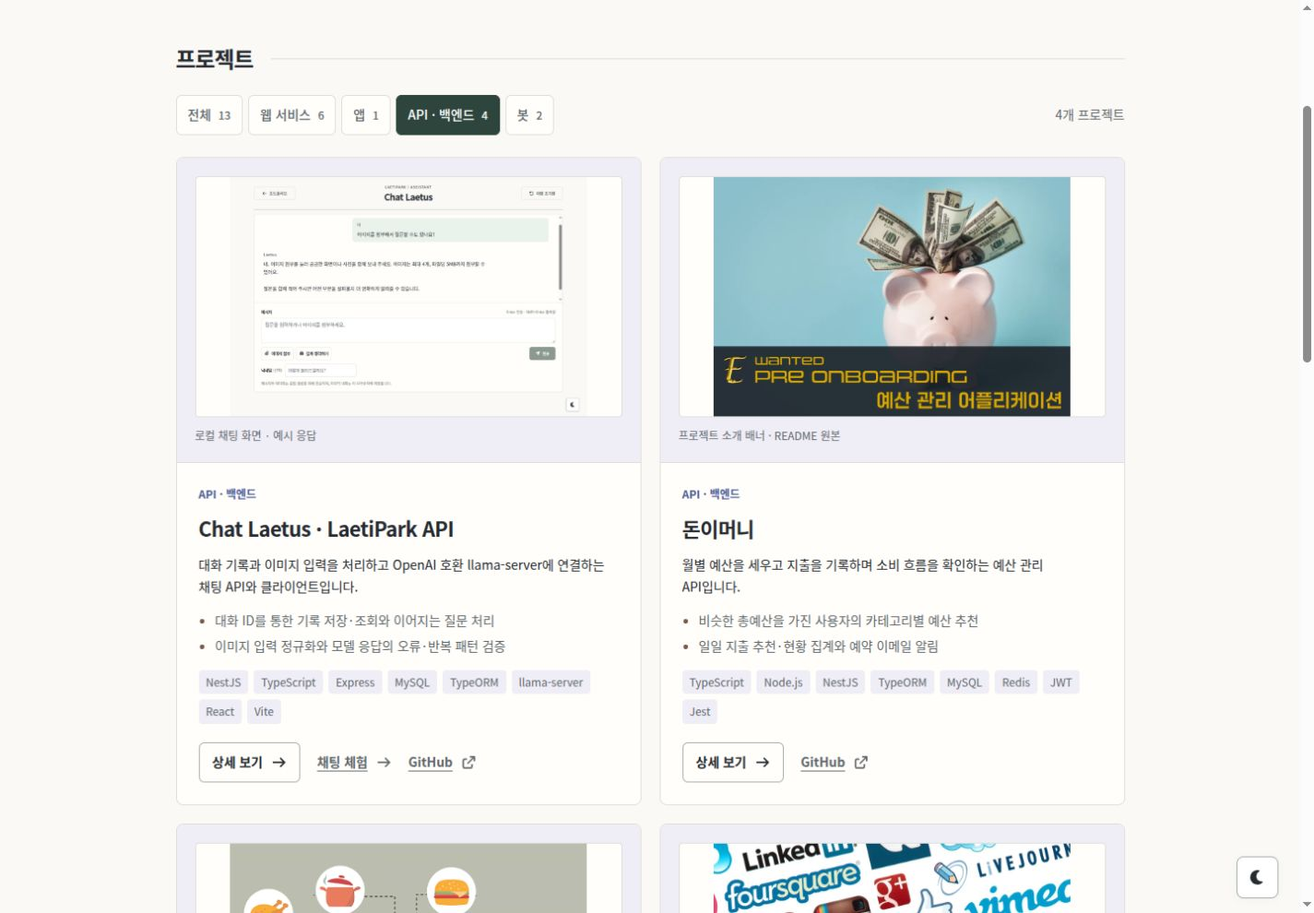
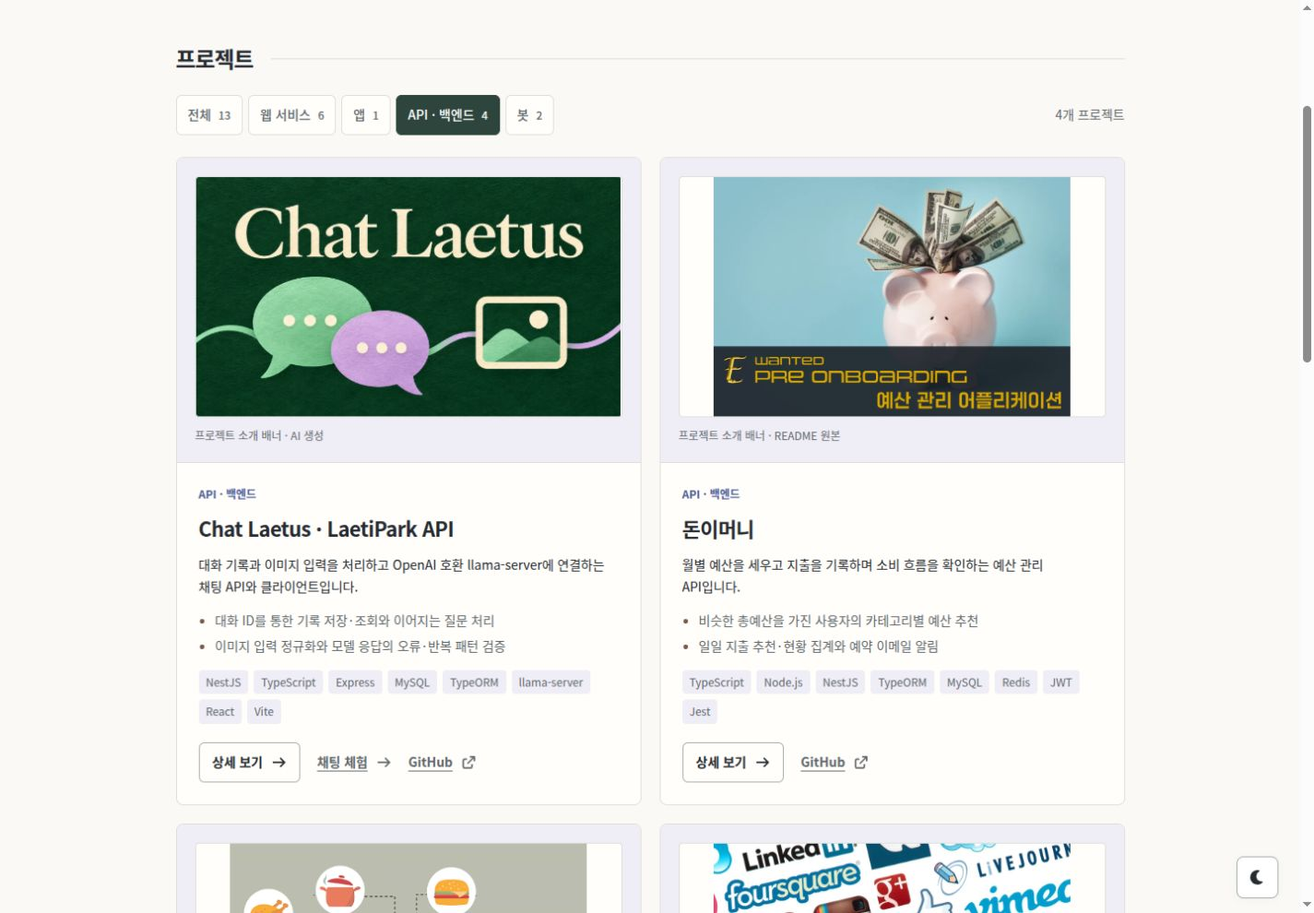
design: 프로젝트 소개 배너 제작 및 README 반영 기록

Changed region(s): [[0.1235, 0.1818, 0.494, 0.4848]]

diff --git a/src/common/data/project-catalog.ts b/src/common/data/project-catalog.ts
@@ -5,6 +5,8 @@ import brawlTreeImage from '../../assets/brawltree.png';
 import sexynogiImage from '../../assets/projects/sexynogi-banner.png';
 import uninoteImage from '../../assets/projects/uninote-screen.png';
 import mountainImage from '../../assets/projects/happy-mountain.png';
+import mountainBanner from '../../assets/projects/happy-mountain-banner.png';
+import uninoteBanner from '../../assets/projects/uninote-banner.png';
 import type { PortfolioProject } from '../types/portfolio';
 import { experimentProjects } from './project-experiments';
 import { serviceProjects } from './project-services';
@@ -138,6 +140,9 @@ export const projects: PortfolioProject[] = [
     id: 'uninote',
     title: 'UNINOTE',
     category: 'web',
+    banner: uninoteBanner,
+    bannerAlt: '하늘색 배경의 노트와 마인드맵을 그린 UNINOTE 소개 배너',
+    bannerCaption: '프로젝트 소개 배너 · AI 생성',
     summary:
       '학습 내용을 마인드맵으로 정리하고 노트와 첨부 자료를 관리하는 웹·Android 프로젝트입니다.',
     highlights: [
@@ -187,6 +192,9 @@ export const projects: PortfolioProject[] = [
     id: 'happy-mountain',
     title: '산등성이',
     category: 'app',
+    banner: mountainBanner,
+    bannerAlt: '웃는 해와 초록 산길, 산등성이 이름을 담은 소개 배너',
+    bannerCaption: '프로젝트 소개 배너 · AI 생성',
     summary:
       '주변 산과 날씨, 지역별 산불 위험 예보를 지도에서 확인하는 Flutter 앱입니다.',
     highlights: [

diff --git a/src/common/data/project-experiments.ts b/src/common/data/project-experiments.ts
@@ -8,6 +8,8 @@ import moneyIsMoneyBanner from '../../assets/projects/money-is-money-banner.png'
 import moneyIsMoneyErd from '../../assets/projects/money-is-money-erd.png';
 
 import type { PortfolioProject } from '../types/portfolio';
+import gowatchBanner from '../../assets/projects/gowatch-banner.png';
+import blossomBotBanner from '../../assets/projects/blossom-bot-banner.png';
 
 export const experimentProjects: PortfolioProject[] = [
   {
@@ -206,6 +208,9 @@ export const experimentProjects: PortfolioProject[] = [
     id: 'gowatch-bot',
     title: 'Gowatch',
     category: 'bot',
+    banner: gowatchBanner,
+    bannerAlt: '노란 스톱워치와 G 심볼을 담은 Gowatch 집중 타이머 배너',
+    bannerCaption: '프로젝트 소개 배너 · AI 생성',
     image: gowatchLogo,
     imageAlt: '노란 바탕에 타이머 모양을 더한 Gowatch 봇 로고',
     imageCaption: '봇 로고 · 프로젝트 저장소',
@@ -259,6 +264,9 @@ export const experimentProjects: PortfolioProject[] = [
     id: 'blossom-bot',
     title: 'Blossom Bot',
     category: 'bot',
+    banner: blossomBotBanner,
+    bannerAlt: '보라색 벚꽃 B 심볼과 게임 카드를 담은 Blossom Bot 배너',
+    bannerCaption: '프로젝트 소개 배너 · AI 생성',
     image: blossomBotLogo,
     imageAlt: '보라색 바탕의 벚꽃과 B 문양으로 구성한 Blossom Discord 봇 로고',
     imageCaption: '봇 로고 · 프로젝트 저장소',

diff --git a/src/common/data/project-services.ts b/src/common/data/project-services.ts
@@ -3,6 +3,7 @@ import type { PortfolioProject } from '../types/portfolio';
 import orsemImage from '../../assets/projects/orsem-ui.png';
 import mysteryMangoImage from '../../assets/projects/mystery-mango.jpg';
 import chatLaetusImage from '../../assets/projects/chat-laetus.jpg';
+import chatLaetusBanner from '../../assets/projects/chat-laetus-banner.png';
 import orsemBanner from '../../assets/projects/orsem-banner.png';
 import mysteryMangoBanner from '../../assets/projects/mystery-mango-banner.png';
 
@@ -141,6 +142,10 @@ export const serviceProjects: PortfolioProject[] = [
     id: 'chat-laetus',
     title: 'Chat Laetus · LaetiPark API',
     category: 'backend',
+    banner: chatLaetusBanner,
+    bannerAlt:
+      '초록 배경에 대화 말풍선과 이미지 입력을 표현한 Chat Laetus 배너',
+    bannerCaption: '프로젝트 소개 배너 · AI 생성',
     image: chatLaetusImage,
     imageAlt:
       '예시 질문과 응답, 이미지 첨부와 깊게 생각하기 도구가 있는 Chat Laetus 화면',

diff --git a/docs/design/project-sources.md b/docs/design/project-sources.md
@@ -9,8 +9,8 @@
 - Brawl Tree·Sexynogi를 대표 프로젝트로 배치하고 웹 서비스 6개, 앱 1개, API·백엔드 4개, 봇 2개로 분류합니다.
 - 기간과 상태는 기존 Brawl Tree·Blossom Stats의 표기를 보존합니다. 새 프로젝트의 날짜·운영 상태·성과 수치는 추정하지 않습니다.
 - 협업 프로젝트는 README에 명시된 개인 담당 역할과 서비스 전체 기능을 구분합니다.
-- 목록은 실제 배너를 우선 사용하고, 배너가 없는 경우 로고 또는 기존 화면을 표시합니다. 상세는 화면·ERD와 구현 설명을 연결합니다.
-- 공개 원본은 `src/assets/projects/`에 저장합니다. 원본 비율을 유지하며 캡션에서 배너·로고·화면·목업·ERD를 구분합니다. 생성한 가상 서비스 화면은 사용하지 않았습니다.
+- 목록은 프로젝트 배너를 우선 사용하고, 배너가 없는 경우 로고 또는 기존 화면을 표시합니다. 사용자 요청으로 Chat Laetus·UNINOTE·산등성이·Gowatch·Blossom Bot에는 소개 배너를 생성해 사용하며 기존 화면·로고는 상세용으로 보존합니다.
+- 공개 원본과 생성 배너는 `src/assets/projects/`에 저장합니다. 원본 비율을 유지하며 캡션에서 배너·로고·화면·목업·ERD를 구분합니다. 생성 배너의 캡션은 `프로젝트 소개 배너 · AI 생성`이며 실제 서비스 화면을 나타내지 않습니다. 제작 근거와 출력 정보는 [생성 배너 기록](generated-banners.md)에 둡니다.
 
 ## 기본 프로젝트
 
@@ -24,22 +24,22 @@
 
 ## 기본 이미지와 배너
 
-| 프로젝트      | 목록 이미지                                                                                                                                                                                      | 상세 이미지와 출처                                    |
-| ------------- | ------------------------------------------------------------------------------------------------------------------------------------------------------------------------------------------------ | ----------------------------------------------------- |
-| Brawl Tree    | [공식 가로형 로고](https://github.com/laetipark/brawltree/blob/master/frontend/public/images/logo/brawltree/logo_horizontal.png) → [로컬 자산](../../src/assets/projects/brawltree-wordmark.png) | 기존 [서비스 화면](../../src/assets/brawltree.png)    |
-| Sexynogi      | [README 대표 배너](https://github.com/laetipark/mobinogi-web/blob/master/frontend/public/thumbnail.png) → [로컬 자산](../../src/assets/projects/sexynogi-banner.png)                             | 같은 원본 사용, 상세에서 중복 표시하지 않음           |
-| UNINOTE       | [로드맵 안내 화면](https://github.com/laetipark/uninote-web/blob/master/BBS/WebContent/img/1.%20map.PNG) → [로컬 자산](../../src/assets/projects/uninote-screen.png)                             | 전용 배너를 찾지 못해 실제 화면 사용                  |
-| 산등성이      | [앱 로고](https://github.com/laetipark/happy-mountain/blob/master/mobile/assets/images/logo.png) → [로컬 자산](../../src/assets/projects/happy-mountain.png)                                     | 전용 배너 없이 기존 로고 사용                         |
-| Blossom Stats | [Blossom 가로형 로고](https://github.com/laetipark/brawltree/blob/master/frontend/public/images/logo/blossom/logo_horizontal.png) → [로컬 자산](../../src/assets/projects/blossom-banner.png)    | 기존 [서비스 화면](../../src/assets/blossomstats.png) |
+| 프로젝트      | 목록 이미지                                                                                                                                                                                      | 상세 이미지와 출처                                                                                                                                                   |
+| ------------- | ------------------------------------------------------------------------------------------------------------------------------------------------------------------------------------------------ | -------------------------------------------------------------------------------------------------------------------------------------------------------------------- |
+| Brawl Tree    | [공식 가로형 로고](https://github.com/laetipark/brawltree/blob/master/frontend/public/images/logo/brawltree/logo_horizontal.png) → [로컬 자산](../../src/assets/projects/brawltree-wordmark.png) | 기존 [서비스 화면](../../src/assets/brawltree.png)                                                                                                                   |
+| Sexynogi      | [README 대표 배너](https://github.com/laetipark/mobinogi-web/blob/master/frontend/public/thumbnail.png) → [로컬 자산](../../src/assets/projects/sexynogi-banner.png)                             | 같은 원본 사용, 상세에서 중복 표시하지 않음                                                                                                                          |
+| UNINOTE       | [생성 소개 배너](../../src/assets/projects/uninote-banner.png) · [제작 기록](generated-banners.md)                                                                                               | [로드맵 안내 화면](https://github.com/laetipark/uninote-web/blob/master/BBS/WebContent/img/1.%20map.PNG) → [로컬 자산](../../src/assets/projects/uninote-screen.png) |
+| 산등성이      | [생성 소개 배너](../../src/assets/projects/happy-mountain-banner.png) · [제작 기록](generated-banners.md)                                                                                        | [앱 로고](https://github.com/laetipark/happy-mountain/blob/master/mobile/assets/images/logo.png) → [로컬 자산](../../src/assets/projects/happy-mountain.png)         |
+| Blossom Stats | [Blossom 가로형 로고](https://github.com/laetipark/brawltree/blob/master/frontend/public/images/logo/blossom/logo_horizontal.png) → [로컬 자산](../../src/assets/projects/blossom-banner.png)    | 기존 [서비스 화면](../../src/assets/blossomstats.png)                                                                                                                |
 
-공개 저장소 파일 목록과 README에서 자산 경로를 확인한 뒤 내려받아 직접 검토했습니다. 학습 기록 날짜나 저장소 생성일을 프로젝트 개발 기간으로 바꾸지 않았습니다.
+공개 저장소에서 가져온 자산은 파일 목록과 README에서 경로를 확인한 뒤 내려받아 직접 검토했습니다. 2026-11-07 최초 조사에서 UNINOTE와 산등성이의 전용 배너는 찾지 못했으며, 이후 사용자 요청으로 생성 소개 배너를 추가합니다. 학습 기록 날짜나 저장소 생성일을 프로젝트 개발 기간으로 바꾸지 않았습니다.
 
 ## 추가 프로젝트의 상세 근거
 
 - [서비스 프로젝트 근거와 배너](sources-services.md): Orsem, Mystery Mango, Chat Laetus · LaetiPark API
 - [백엔드·봇 프로젝트 근거와 배너](sources-experiments.md): 돈이머니, 여기가자, 피드모아, Gowatch, Blossom Bot
 
-배너가 없는 Chat Laetus는 실제 로컬 UI에서 통제된 예시 응답을 캡처했습니다. 해당 이미지는 모델의 실제 추론 결과나 운영 서버 성능을 나타내지 않습니다. 각 프로젝트 서버·봇의 기능 테스트를 이번 포트폴리오 조사에서 수행한 것은 아닙니다.
+Chat Laetus는 생성 소개 배너와 별도로 실제 로컬 UI에서 통제된 예시 응답을 캡처한 상세 이미지를 보존합니다. 해당 화면은 모델의 실제 추론 결과나 운영 서버 성능을 나타내지 않습니다. 각 프로젝트 서버·봇의 기능 테스트를 이번 포트폴리오 조사에서 수행한 것은 아닙니다.
 
 ## 운영 링크 확인
 

diff --git a/docs/design/generated-banners.md b/docs/design/generated-banners.md
@@ -1,0 +1,57 @@
+# 프로젝트 소개 배너 제작
+
+[디자인 개편 기록](portfolio-redesign.md) · [이미지 출처](project-sources.md) · [최종 프롬프트](banner-prompts.json)
+
+2026-11-07 사용자 요청에 따라 배너가 없던 다섯 프로젝트의 소개 이미지를 제작했습니다. **내장 `image_gen` 도구**를 사용했으며, 완성 PNG는 모두 **1672×941px**입니다. 포트폴리오에서는 기존 카드와 같은 **16:9** 영역에 `scale-down`으로 표시해 자르거나 늘리지 않습니다.
+
+## 디자인과 저장 위치
+
+| 프로젝트    | 표현 방향                                             | 완성 파일                                                                        |
+| ----------- | ----------------------------------------------------- | -------------------------------------------------------------------------------- |
+| Chat Laetus | 짙은 초록, 민트·라벤더 대화 말풍선과 이미지 입력 상징 | [chat-laetus-banner.png](../../src/assets/projects/chat-laetus-banner.png)       |
+| UNINOTE     | 하늘색·아이보리, 열린 노트와 연결된 마인드맵          | [uninote-banner.png](../../src/assets/projects/uninote-banner.png)               |
+| 산등성이    | 기존 웃는 해·산 로고, 초록 능선과 산책길              | [happy-mountain-banner.png](../../src/assets/projects/happy-mountain-banner.png) |
+| Gowatch     | 기존 G·스톱워치 모티프, 노란색과 집중 시간의 흐름     | [gowatch-banner.png](../../src/assets/projects/gowatch-banner.png)               |
+| Blossom Bot | 기존 벚꽃 B 심볼, 보라색 말풍선과 게임 카드           | [blossom-bot-banner.png](../../src/assets/projects/blossom-bot-banner.png)       |
+
+산등성이·Gowatch·Blossom Bot은 저장소의 기존 로고를 참조했습니다. UNINOTE는 기존 화면의 하늘색을, Chat Laetus는 포트폴리오의 초록·민트·라벤더를 사용했습니다. 공통으로 큰 프로젝트명, 부드러운 종이 질감과 여백을 사용하되 각 프로젝트의 주제를 구분했습니다.
+
+프롬프트의 요청 해상도와 생성 도구의 실제 출력은 다를 수 있어, 배포 전 PNG 헤더와 브라우저의 `naturalWidth`·`naturalHeight`로 다섯 파일이 모두 같은 크기임을 확인했습니다. 최종 문구와 참조 자산은 [프롬프트 기록](banner-prompts.json)에 보관합니다.
+
+이 이미지는 프로젝트를 소개하는 일러스트이며 실제 제품 화면이나 기능 시연이 아닙니다. 목록과 상세의 캡션은 `프로젝트 소개 배너 · AI 생성`으로 구분합니다. 기존 화면·로고·ERD는 상세 이미지로 보존합니다.
+
+## 프로젝트 README 반영
+
+UNINOTE는 웹과 Android가 하나의 프로젝트이므로 같은 PNG를 두 저장소에 사용합니다. 각 저장소의 변경은 README의 H1 다음 배너 한 줄과 이미지 파일 하나로 한정하며, 기존 설명과 로고는 보존합니다.
+
+| 저장소          | README                                                                         | 배너 경로                              |
+| --------------- | ------------------------------------------------------------------------------ | -------------------------------------- |
+| LaetiPark API   | [README](https://github.com/laetipark/laetipark-api/blob/master/README.md)     | `docs/assets/laetipark-api-banner.png` |
+| UNINOTE 웹      | [README](https://github.com/laetipark/uninote-web/blob/master/README.md)       | `docs/images/project-banner.png`       |
+| UNINOTE Android | [README](https://github.com/laetipark/uninote-app/blob/master/README.md)       | `docs/images/project-banner.png`       |
+| 산등성이        | [README](https://github.com/laetipark/happy-mountain/blob/master/README.md)    | `docs/images/project-banner.png`       |
+| Gowatch         | [README](https://github.com/laetipark/gowatch-bot/blob/master/README.md)       | `public/gowatch-banner.png`            |
+| Blossom Bot     | [README](https://github.com/laetipark/brawltree-discord/blob/master/README.md) | `images/blossom-banner.png`            |
+
+## README 반영 커밋
+
+| 저장소          | master 반영 커밋                                                                                          |
+| --------------- | --------------------------------------------------------------------------------------------------------- |
+| LaetiPark API   | [912a8fa](https://github.com/laetipark/laetipark-api/commit/912a8faf3554e5034dc8bee85f10240b7b258c82)     |
+| UNINOTE 웹      | [83b217b](https://github.com/laetipark/uninote-web/commit/83b217b2f9531de8914c82da2e269d4a539fb5e4)       |
+| UNINOTE Android | [fc89810](https://github.com/laetipark/uninote-app/commit/fc89810dcbfa338e5ffad7b9c86bf2e27205f655)       |
+| 산등성이        | [0467fac](https://github.com/laetipark/happy-mountain/commit/0467facb6e0b4705b515a34b666f3a5c92b91f4c)    |
+| Gowatch         | [6be924d](https://github.com/laetipark/gowatch-bot/commit/6be924db459e95acf6a3f2d20465300815eafda8)       |
+| Blossom Bot     | [11a14da](https://github.com/laetipark/brawltree-discord/commit/11a14da68055407ce11e9c080a131fb9a138316a) |
+
+각 원격 HEAD와 README·이미지 blob이 검증한 로컬 커밋과 동일함을 확인했습니다. 강제 푸시 없이 반영했으며 커밋마다 변경 파일은 두 개입니다.
+
+## 검증
+
+- PNG 다섯 개의 실제 해상도와 프로젝트명·한글 표기·로고 모티프를 확인했습니다.
+- 전체 13개 프로젝트를 표시한 상태에서 320·390·768·1024·1440px 라이트·다크 화면의 가로 넘침이 없음을 확인했습니다.
+- 새 배너 다섯 개가 데스크톱 일반 카드에서 모두 같은 468×263.25px 영역에 표시되는 것을 확인했습니다. 화면이 좁아지면 같은 비율로 함께 축소됩니다.
+- 상세 모달에서 새 배너와 기존 로고가 각각 표시되며 이미지 원본 링크와 닫은 뒤 포커스 복귀가 유지되는 것을 확인했습니다.
+- `npm run lint`, `npm run build`를 통과했습니다.
+
+![새 배너가 적용된 봇 프로젝트 목록](images/generated-banners-desktop.jpg)

diff --git a/docs/design/sources-services.md b/docs/design/sources-services.md
@@ -28,7 +28,7 @@
 - [manifest](https://github.com/laetipark/laetipark-api/blob/master/package.json): 소개한 서버 기술 확인
 - 체험 링크는 현재 포트폴리오의 `/chat`입니다. API 문서의 `https://api.laetipark.me`는 운영 권장 주소로 표현돼 있어 방문용 링크로 추가하지 않았습니다.
 
-## 대표 이미지의 출처
+## 상세 이미지의 출처
 
 공개 저장소의 원본 파일을 2026-11-07 내려받아 시각적으로 확인했습니다. Git blob SHA로 원본과 다운로드 파일의 일치도 확인했습니다. Chat Laetus는 같은 날 현재 포트폴리오의 로컬 화면을 별도로 캡처하고 확인했습니다.
 
@@ -40,15 +40,17 @@
 
 - Orsem은 1414×2200px 원본 UI 보드이며 모의 데이터를 사용합니다. 캡션은 `저장소의 UI 목업 · 예시 데이터`로 표기하고 [README의 이미지 기준](https://github.com/laetipark/orsem/blob/master/README.md)을 따릅니다.
 - Mystery Mango는 1838×871px 홈 이미지입니다. 배포 화면을 바탕으로 정리한 Figma UI이며, 화면 기준일과 브랜딩 갱신일, 캡처 방식을 [이미지 기준](https://github.com/laetipark/mystery-mango/blob/main/docs/screens.md#이미지-기준과-갱신)과 구분합니다. 캡션은 `배포 화면을 바탕으로 정리한 Figma UI`로 표기합니다.
-- LaetiPark API 저장소에는 조사 시점에 이미지 자산이 없습니다. Chat Laetus의 대표 이미지는 현재 포트폴리오의 로컬 UI를 1200×800px로 캡처했습니다. 실제 모델 응답이 아닌 통제된 로컬 API의 예시 응답을 표시했으며 캡션은 `로컬 채팅 화면 · 예시 응답`입니다.
+- LaetiPark API 저장소에는 2026-11-07 최초 조사 시점에 이미지 자산이 없었습니다. Chat Laetus의 상세 이미지는 현재 포트폴리오의 로컬 UI를 1200×800px로 캡처했습니다. 실제 모델 응답이 아닌 통제된 로컬 API의 예시 응답을 표시했으며 캡션은 `로컬 채팅 화면 · 예시 응답`입니다.
 
 ## 프로젝트 배너의 출처
 
-2026-11-07 공개 저장소의 README와 전체 파일 트리에서 실제 배너를 확인해 원본을 내려받았습니다. 각 파일을 직접 열어 확인하고 Git blob SHA가 원본과 일치하는지 검사했습니다. 기존 UI 이미지는 상세 화면용으로 유지합니다.
+2026-11-07 Orsem과 Mystery Mango의 공개 저장소 README와 전체 파일 트리에서 실제 배너를 확인해 원본을 내려받았습니다. 아래 두 파일을 직접 열어 확인하고 Git blob SHA가 원본과 일치하는지 검사했습니다. 기존 UI 이미지는 상세 화면용으로 유지합니다.
 
 | 로컬 배너                                      | 원본                                                                                                            | 크기       | Git blob SHA                               |
 | ---------------------------------------------- | --------------------------------------------------------------------------------------------------------------- | ---------- | ------------------------------------------ |
 | `src/assets/projects/orsem-banner.png`         | [Orsem README 배너](https://github.com/laetipark/orsem/blob/master/docs/assets/orsem-banner.png)                | 2172×724px | `0d80e0dd7449ff0466041964125ab289b3cdabc1` |
 | `src/assets/projects/mystery-mango-banner.png` | [Mystery Mango README 배너](https://github.com/laetipark/mystery-mango/blob/main/docs/images/readme-banner.png) | 1730×909px | `12c8cd9d712f5f32da418fabdb7400de088b0a2e` |
 
-두 배너의 캡션은 `공개 저장소의 프로젝트 배너`입니다. LaetiPark API에는 배너·커버·이미지 자산이 확인되지 않아 배너 필드를 추가하지 않았으며, 기존 Chat Laetus 로컬 채팅 화면을 대체 이미지로 유지합니다.
+두 배너의 캡션은 `공개 저장소의 프로젝트 배너`입니다.
+
+LaetiPark API에는 2026-11-07 최초 조사 시점에 배너·커버·이미지 자산이 확인되지 않았습니다. 이후 사용자 요청으로 [Chat Laetus 소개 배너](../../src/assets/projects/chat-laetus-banner.png)를 생성해 `banner`에 연결하고 `프로젝트 소개 배너 · AI 생성`으로 표시합니다. 이 배너는 실제 채팅 화면을 표현하지 않으며 기존 로컬 채팅 화면은 상세용 `image`로 보존합니다. 제작 근거와 출력 정보는 [생성 배너 기록](generated-banners.md)에 둡니다.

diff --git a/docs/rules/DESIGN.md b/docs/rules/DESIGN.md
@@ -93,8 +93,9 @@
 - 빌드에서 관리할 이미지 자산은 `src/assets`에 두고 import해서 사용합니다.
 - favicon, 404 문서와 같이 변환하지 않을 공개 자산만 `public`에 둡니다.
 - 정보성 이미지에는 내용을 설명하는 `alt`를 제공하고, 장식 이미지는 스크린 리더에서 중복 안내되지 않게 처리합니다.
-- 기술 이름을 표시하기 위해 외부 배지 이미지를 요청하지 않습니다. 프로젝트별 기존 자산과 공개 저장소의 원본을 사용하고 화면 비율을 왜곡하지 않습니다.
-- 화면 캡처·브랜드 썸네일·앱 및 봇 로고·ERD·UI 목업을 `imageCaption`으로 구분하고, 프로젝트 배너는 `bannerCaption`으로 설명합니다. 실제 화면이 없는 프로젝트에 가짜 화면을 만들지 않습니다. 확인한 원본 경로와 출처는 [프로젝트 근거 자료](../design/project-sources.md)에 연결합니다.
+- 기술 이름을 표시하기 위해 외부 배지 이미지를 요청하지 않습니다. 프로젝트별 기존 자산과 공개 저장소의 원본을 보존하고 화면 비율을 왜곡하지 않습니다. 사용자가 요청한 프로젝트 소개 배너는 새로 생성할 수 있으며 기존 화면·로고·ERD를 대체하지 않습니다.
+- 화면 캡처·브랜드 썸네일·앱 및 봇 로고·ERD·UI 목업을 `imageCaption`으로 구분하고, 프로젝트 배너는 `bannerCaption`으로 설명합니다. 생성 배너는 `프로젝트 소개 배너 · AI 생성`으로 표시하며 실제 서비스 화면이나 구현 증거로 제시하지 않습니다. 실제 화면이 없는 프로젝트에 가짜 화면을 만들지 않습니다.
+- 원본 경로와 출처는 [프로젝트 근거 자료](../design/project-sources.md)에 연결합니다. 생성 배너의 제작일·도구·참조 자산·제작 의도·실제 출력 크기와 파일 경로는 [생성 배너 기록](../design/generated-banners.md)에 남깁니다. 카드의 16:9 영역과 `scale-down` 배치는 생성 배너에도 동일하게 적용합니다.
 
 ## 접근성과 상호작용
 

diff --git a/docs/rules/FRONTEND.md b/docs/rules/FRONTEND.md
@@ -80,6 +80,7 @@
 - `links`의 외부 링크는 새 탭과 `noreferrer`를 사용합니다. `external: false`인 `/chat`의 일반 클릭은 `onOpenChat`으로 처리하고 수정키 조합·중간 클릭은 브라우저 기본 동작을 유지합니다.
 - 이미지가 있으면 내용에 맞는 `imageAlt`와 종류·출처를 설명하는 `imageCaption`을 함께 제공합니다. 자산과 소개의 근거는 [프로젝트 근거 자료](../design/project-sources.md)에 기록합니다.
 - 카드는 `banner`를 우선 사용하고 없으면 `image`를 사용합니다. 배너에는 별도의 `bannerAlt`·`bannerCaption`을 사용해 상세 이미지의 설명이 섞이지 않게 합니다.
+- 사용자 요청으로 제작한 생성 배너도 `banner`에 연결하고 `bannerCaption`은 `프로젝트 소개 배너 · AI 생성`으로 표시합니다. 기존 화면·로고·ERD의 `image`와 설명은 상세용으로 보존하며, 제작 근거와 실제 출력 정보는 [생성 배너 기록](../design/generated-banners.md)에 연결합니다.
 - 모달은 배너와 상세 이미지를 구분해 보여주고, 두 필드가 같은 원본 경로면 한 번만 표시합니다. 각 이미지의 원본 크게 보기 링크를 유지합니다.
 - 테마, 모달, 채팅의 구체적인 화면 동작은 [디자인 규칙](DESIGN.md)을 따릅니다.
 

diff --git a/docs/design/portfolio-redesign.md b/docs/design/portfolio-redesign.md
@@ -142,3 +142,7 @@ Laetus 응답 / 응답 준비 상태
 배포 대상은 [운영 포트폴리오](https://laetipark.me/)이며, 배포 실행 이력은 [GitHub Actions](https://github.com/laetipark/laetipark.github.io/actions/workflows/deploy.yml)에서 확인합니다.
 
 운영 배포 후 GitHub Pages 주소에서 사용자 도메인으로의 연결, 13개 프로젝트 표시, `/chat` 직접 접근·새로고침·뒤로 가기를 확인했습니다. 채팅 입력은 운영 API 설정을 인식해 활성화되며, 운영 API에 테스트 메시지는 전송하지 않았습니다. 포트폴리오로 되돌아오는 Sexynogi의 이전 서비스 링크는 제거하고 저장소 링크를 유지했습니다.
+
+## 소개 배너 후속 적용
+
+2026-11-07 후속 요청으로 Chat Laetus·UNINOTE·산등성이·Gowatch·Blossom Bot의 배너를 제작했습니다. 다섯 PNG의 원본 크기는 1672×941px로 같으며 목록은 기존 16:9 영역을 유지합니다. 실제 화면과 로고는 상세에 보존했습니다. 배너 파일, 프롬프트, 저장소 README 반영과 검증 결과는 [생성 배너 기록](generated-banners.md)에 정리합니다.

diff --git a/README.md b/README.md
@@ -31,7 +31,7 @@
 | API · 백엔드 · 4개 | Chat Laetus · LaetiPark API, 돈이머니, 여기가자, 피드모아          | 대화 처리, 예산 관리, 위치 기반 음식점 탐색, 통합 피드              |
 | 봇 · 2개           | Gowatch, Blossom Bot                                               | 집중 시간 기록, 게임 정보 조회와 브롤러 선택                        |
 
-목록의 이미지는 프로젝트별 서비스 화면, 브랜드 로고, 데이터베이스 ERD와 UI 목업을 사용하며 캡션으로 종류를 구분합니다. 프로젝트 설명과 이미지의 출처는 [프로젝트 근거 자료](docs/design/project-sources.md)에 정리합니다.
+목록에는 프로젝트별 배너와 브랜드 로고를 표시하고, 상세에는 실제 화면·ERD·UI 목업을 함께 제공합니다. 배너가 없던 다섯 프로젝트에는 같은 크기로 제작한 소개 배너를 적용했습니다. [프로젝트 출처](docs/design/project-sources.md)와 [배너 파일·제작 기록·프롬프트](docs/design/generated-banners.md)에서 확인할 수 있습니다.
 
 ## 로컬 실행
 

diff --git a/docs/README.md b/docs/README.md
@@ -2,7 +2,7 @@
 
 이 문서는 Laetipark 포트폴리오 작업을 시작할 때 사용하는 문서 라우터입니다. 루트의 [AGENTS.md](../AGENTS.md)와 [CLAUDE.md](../CLAUDE.md)는 이 문서로 안내하는 역할만 하며, 프로젝트 규칙의 정본은 `docs/rules/`에 둡니다.
 
-[저장소 소개와 실행 방법](../README.md) · [화면 목업과 검증 기록](design/portfolio-redesign.md) · [프로젝트 근거 자료](design/project-sources.md)
+[저장소 소개와 실행 방법](../README.md) · [화면 목업과 검증 기록](design/portfolio-redesign.md) · [프로젝트 근거 자료](design/project-sources.md) · [생성 배너 기록](design/generated-banners.md)
 
 ## 시작 순서
 
